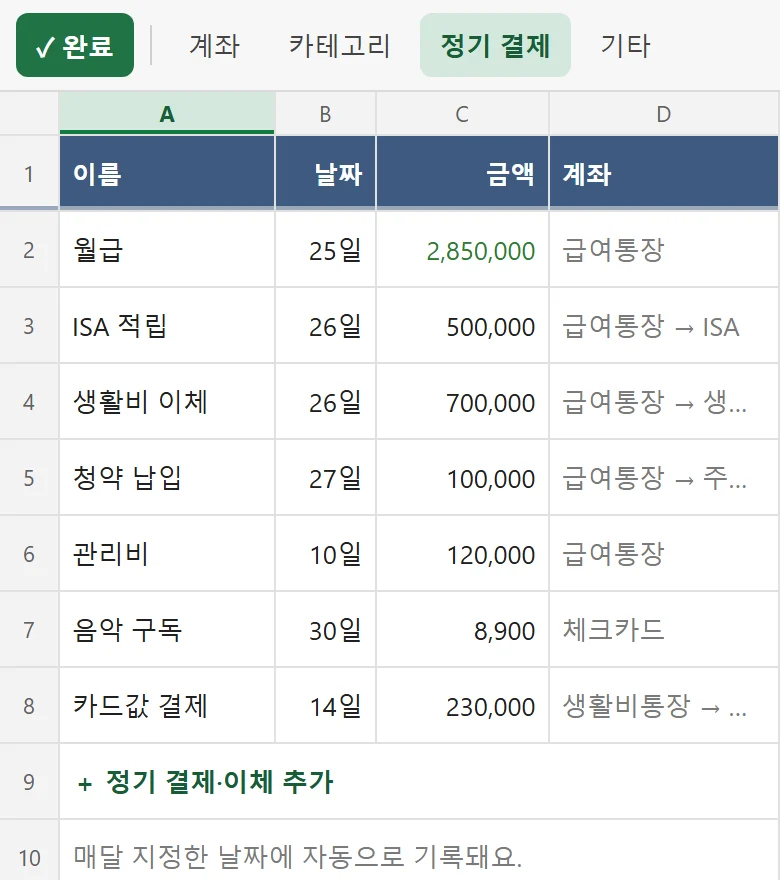
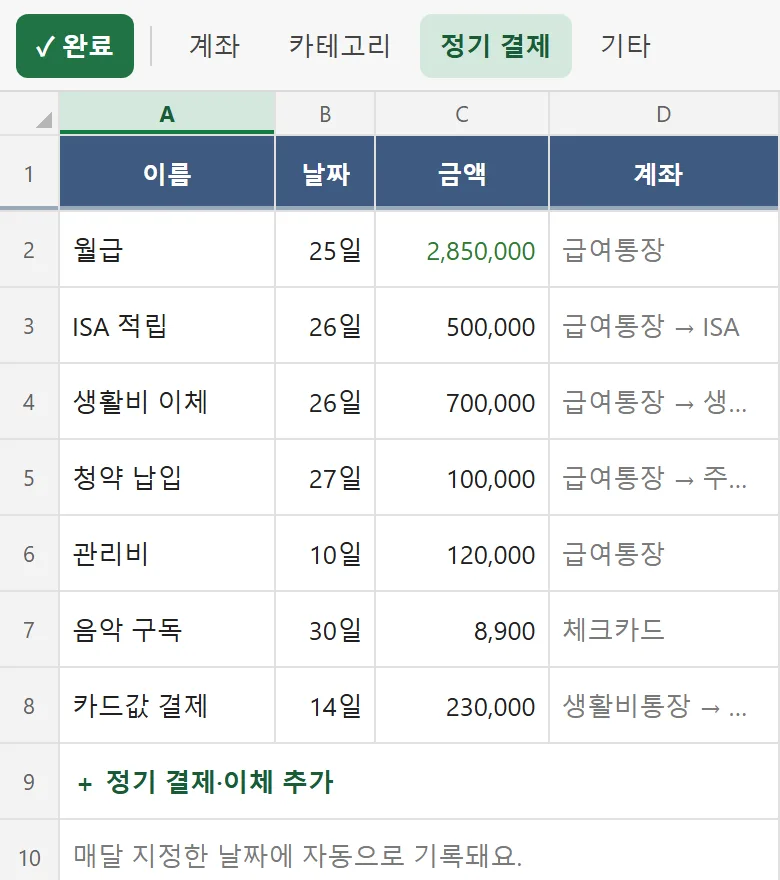
빠른 입력 오타 인식, 입금·출금 말 정리, 도움말 사진 새로 찍음, 휴대폰 도구 모음·넓은 화면 첫 화면 정리

diff --git a/app.js b/app.js
@@ -276,7 +276,7 @@ function aStats(id, s, e) {
 }
 
 /* ---------- 앱 버전 · 화면 테마 · 화면 높이 ---------- */
-const APP_VER = '2026.10.20-6';
+const APP_VER = '2026.10.21-1';
 // 화면 테마: auto(휴대폰 설정 따라감) / light / dark
 const THK = KEY + '.theme';
 const themePref = () => { try { return localStorage.getItem(THK) || 'auto'; } catch (e) { return 'auto'; } };
@@ -446,6 +446,7 @@ function render() {
   const app = $('#app');
   const wide = !!S && isWide();
   document.documentElement.classList.toggle('wide', wide);
+  document.documentElement.classList.toggle('wide-start', !S && isWide()); // 넓은 화면의 첫 화면은 가운데 상자로
   if (!S) { app.innerHTML = Sync.status === 'lock' ? vLocked() : vWelcome(); return; }
   if (U.detail && !A(U.detail)) U.detail = null;
   if (U.acct && !A(U.acct)) U.acct = null;
@@ -739,15 +740,64 @@ const QE = { focus: false };
 const KW = [[/커피|카페|스벅|스타벅스|디저트|빵|케이크|음료/, '커피·디저트'], [/점심|저녁|아침|식당|밥|마트|장보기|편의점|배달|식비|반찬|간식/, '식비·생활'],
   [/버스|지하철|택시|기차|ktx|srt|주유|교통|주차/i, '교통'], [/관리비|전기|가스|수도|월세|통신|공과금|인터넷/, '주거·공과금'], [/쿠팡|옷|쇼핑|온라인|다이소/, '쇼핑'],
   [/넷플릭스|유튜브|구독|멜론|icloud|애플뮤직|티빙|웨이브/i, '구독료'], [/영화|공연|여행|게임|여가|노래방|헬스/, '여가'], [/선물|경조사|축의|조의|모임|회비/, '사람'],
-  [/월급|급여|보너스|상여/, '월급'], [/캐시백|환급|이자|용돈|중고/, '기타수입']];
-const QIN = tk => /^(입금|수입|월급|급여|보너스|상여금?|용돈|이자|환불|환급|캐시백|페이백|판매)$/.test(tk) || /받았|받음|들어옴|들어왔|팔았/.test(tk);
-const QOUT = tk => /^(출금|지출|결제|줌|냄|드림|보냄|구매|구입)$/.test(tk) || /줬|드렸|냈|보냈|샀/.test(tk);
+  [/월급|급여|보너스|상여/, '월급'], [/캐시백|환급|환불|이자/, '기타수입']];
+const QIN = tk => /^(입금|월급|급여|보너스|상여금|환불|환급|이자|캐시백)$/.test(tk); // 뜻이 분명한 말만
+const QOUT = tk => /^(출금|지출|결제)$/.test(tk);
 const QTYPE = /^(입금|출금|지출|수입)$/;
+// ---- 오타 인식 ----
+const jamo = str => { let o = ''; for (const ch of str.toLowerCase()) { const c = ch.charCodeAt(0) - 0xAC00; o += c >= 0 && c < 11172 ? String.fromCharCode(0x1100 + (c / 588 | 0), 0x1161 + (c % 588 / 28 | 0)) + (c % 28 ? String.fromCharCode(0x11A7 + c % 28) : '') : ch; } return o; };
+function editDist(a, b, max) {
+  if (Math.abs(a.length - b.length) > max) return max + 1;
+  let prev = Array.from({ length: b.length + 1 }, (_, i) => i);
+  for (let i = 1; i <= a.length; i++) {
+    const cur = [i]; let low = i;
+    for (let j = 1; j <= b.length; j++) { cur[j] = Math.min(prev[j] + 1, cur[j - 1] + 1, prev[j - 1] + (a[i - 1] === b[j - 1] ? 0 : 1)); low = Math.min(low, cur[j]); }
+    if (low > max) return max + 1; prev = cur;
+  }
+  return prev[b.length];
+}
+// 흔히 쓰는 낱말: 고치지 않고, 오타를 고칠 때 대상도 됨
+const COMMON = '아침 점심 저녁 야식 간식 배달 마트 편의점 장보기 반찬 과일 고기 우유 생수 라면 김밥 국밥 치킨 피자 떡볶이 빵집 술 회식 택시 버스 지하철 기차 주유 주차 세차 약국 병원 미용실 세탁 수리 선물 축의금 조의금 경조사 월세 관리비 전기 가스 수도 통신비 보험 학원 책 옷 신발 가방 화장품 담배 휴지 세제 이사 대출 적금 카드값 용돈 중고 판매 꽃 안경 문구 여행 숙소 항공 영화 게임 헬스 노래방 쿠팡 다이소'.split(' ');
+// 고칠 대상: 계좌 이름, 카테고리, 자주 쓰는 단어(추정 단어 + 흔한 낱말 + 두 번 이상 쓴 메모 낱말)
+function quickVocab() {
+  const w = new Set(['어제', '오늘', '그제', '이동', '이체', '송금', '입금', '출금', '지출', '결제', '월급', '급여', '보너스', '상여금', '환불', '환급', '이자', '캐시백']);
+  for (const [re] of KW) for (const x of re.source.split('|')) if (/^[가-힣]{2,}$/.test(x)) w.add(x);
+  for (const x of COMMON) w.add(x);
+  for (const c of S.cats) for (const x of c.n.split(/[·\s]/)) if (x.length >= 2) w.add(x);
+  const n = new Map(); for (const t of S.tx) for (const x of String(t.memo || '').split(' ')) if (x.length >= 2) n.set(x, (n.get(x) || 0) + 1);
+  for (const [x, k] of n) if (k >= 2) w.add(x);
+  return w;
+}
+function fixTypos(text) {
+  const vocab = quickVocab(), fixed = [], nm = x => x.toLowerCase().replace(/\s+/g, '');
+  const names = accts().map(a => [a, nm(a.name)]);
+  const out = text.trim().split(' ').map(tk => {
+    const m = tk.match(/^(.*?)(에서|으로|로|에)?$/), b = m[1], tail = m[2] || '';
+    if (!/^[가-힣]{2,}$/.test(b) || vocab.has(b) || names.some(([, n]) => n.includes(nm(b)))) return tk; // 한글 두 글자 이상, 모르는 말만
+    const lim = b.length >= 3 ? 2 : 1, jb = jamo(b);
+    const ok = w => jamo(w)[0] === jb[0] && !w.includes(b) && !b.includes(w); // 첫 자음이 같고, 한쪽이 다른 쪽을 품지 않을 때만
+    // 계좌 이름(앞부분)과 비교
+    let best = null, bd = lim + 1, tie = false;
+    for (const [a, n] of names) {
+      if (!ok(n)) continue;
+      const d = Math.min(editDist(jb, jamo(n.slice(0, b.length)), lim), editDist(jb, jamo(n), lim));
+      if (d < bd) { best = a; bd = d; tie = false; } else if (d === bd && best && best.id !== a.id) tie = true;
+    }
+    if (best && !tie) { fixed.push(`${b}→${best.name}`); return best.name.replace(/\s+/g, '') + tail; }
+    // 자주 쓰는 단어와 비교
+    let bw = null; bd = lim + 1; tie = false;
+    for (const w of vocab) { if (!ok(w)) continue; const d = editDist(jb, jamo(w), lim); if (d < bd) { bw = w; bd = d; tie = false; } else if (d === bd) tie = true; }
+    if (bw && !tie) { fixed.push(`${b}→${bw}`); return bw + tail; }
+    return tk;
+  });
+  return { text: out.join(' '), fixed };
+}
 const escRe = x => x.replace(/[.*+?^${}()|[\]\\]/g, '\\$&');
 function parseQuick(text) {
-  let t = ' ' + String(text || '').replace(/\s+/g, ' ').trim() + ' ';
-  if (!t.trim()) return null;
-  const o = { date: defDate(), acct: '', type: 'out', amt: 0, ex: '', cat: '', to: '', memo: '' };
+  let t = String(text || '').replace(/\s+/g, ' ').trim();
+  if (!t) return null;
+  const fx = fixTypos(t); t = ' ' + fx.text + ' ';
+  const o = { date: defDate(), acct: '', type: 'out', amt: 0, ex: '', cat: '', to: '', memo: '', fixed: fx.fixed };
   const findAcct = str => { let best = null; const l = str.toLowerCase(); for (const a of accts()) { const nm = a.name.toLowerCase(); if (nm && l.includes(nm) && (!best || nm.length > best.name.length)) best = a; } return best; };
   const PT = '(?:에서|으로|로|에)?'; // 계좌 이름 뒤 조사 (국민카드에서, 토스로)
   const cut = (str, name) => str.replace(new RegExp(escRe(name) + PT, 'i'), ' ');
@@ -839,7 +889,8 @@ function quickPreview(o) {
   else parts.push(o.cat ? `${catLbl(o.cat)}` : '<span class="neg">카테고리 빈 칸</span>');
   parts.push(o.date === TODAY() ? '오늘' : dLabel(o.date));
   if (o.memo) parts.push(`"${esc(o.memo)}"`);
-  return '↳ ' + parts.join(' · ') + ' <span style="color:var(--muted)">· Enter로 추가</span>';
+  const fx = o.fixed?.length ? ` <span class="qfix">· 오타 고침 ${esc(o.fixed.join(', '))}</span>` : '';
+  return '↳ ' + parts.join(' · ') + fx + ' <span style="color:var(--muted)">· Enter로 추가</span>';
 }
 // 날짜 칸: 비우면 오늘(보는 달 기준), 10/14 · 14 · 1014 · 2026-10-14
 function qDate(v) {
@@ -1312,7 +1363,7 @@ const GUIDE = [
 const HELP = [
   { t: '처음 설정', img: 'help/start.webp', p: ['계좌의 시작 잔액은 시작일 기준이에요. 시작일 이전 거래는 계산에서 빠져요.', '시작일은 설정 → 기본값 설정 → 기타에서 바꿀 수 있어요.', '카드는 남은 카드값을 마이너스로 적어요. 예: -300000'] },
   { t: '빠른 입력', img: 'help/quick.webp', p: ['입력 탭 맨 위 칸에 한 줄로 적어요. 날짜 칸을 비우면 오늘로 들어가요.'],
-    ex: [['커피 4500', '출금, 커피·디저트'], ['체크카드 점심 9000', '체크카드에서 출금'], ['월급 2850000', '월급·용돈·입금·환불 같은 말이 있으면 입금'], ['용돈 줌 50000', '줌·결제·보냄 같은 말이 있으면 출금'], ['급여통장 → ISA 500000', '내 계좌끼리 이동'], ['급여통장에서 ISA로 500000', '말로 적어도 이동'], ['체크카드로 이체 300000', '보고 있는 계좌에서 보내기'], ['국민카드에서 커피 4500', '계좌 이름 뒤 조사는 빼고 읽음'], ['어제 버스 1500', '어제 날짜로'], ['18600/3 저녁', '나눈 금액 6,200'], ['1.5만 장보기', '15,000']] },
+    ex: [['커피 4500', '출금, 커피·디저트'], ['체크카드 점심 9000', '체크카드에서 출금'], ['월급 2850000', '입금·월급·급여·보너스·환불·이자가 있으면 입금'], ['동벡 4500 커퓌', '오타는 비슷한 계좌·단어로 고쳐서 넣음'], ['급여통장 → ISA 500000', '내 계좌끼리 이동'], ['급여통장에서 ISA로 500000', '말로 적어도 이동'], ['체크카드로 이체 300000', '보고 있는 계좌에서 보내기'], ['국민카드에서 커피 4500', '계좌 이름 뒤 조사는 빼고 읽음'], ['어제 버스 1500', '어제 날짜로'], ['18600/3 저녁', '나눈 금액 6,200'], ['1.5만 장보기', '15,000']] },
   { t: '컴퓨터·아이패드', p: ['화면이 넓으면 표가 넓게 펼쳐지고, 탭은 아래 시트 탭으로 옮겨요.'],
     ex: [['1 ~ 4, Ctrl+PgUp/PgDn', '탭 이동'], ['/', '빠른 입력 칸으로'], ['방향키, Tab, Home/End, PgUp/PgDn', '셀 이동'], ['Enter, F2', '선택한 셀 고치기'], ['금액 셀에서 숫자', '새 금액 바로 입력'], ['Esc', '선택 풀기'], ['Delete', '선택한 행 삭제'], ['Ctrl+Z / Ctrl+Y', '되돌리기 / 다시 실행'], ['아래 100% 누르기', '확대/축소 비율 고르기']] },
   { t: '고치기와 지우기', img: 'help/row.webp', p: ['셀을 누르면 그 칸만 고칠 수 있어요.', '셀을 고르면 위쪽에 행 삭제 버튼이 생겨요. 왼쪽 행 번호를 눌러도 복제, 삭제, 색 표시를 할 수 있어요.', '잘못 눌렀으면 위쪽 ↶로 되돌려요.'] },

diff --git a/tests/test.js b/tests/test.js
@@ -256,12 +256,18 @@ async function run() {
       { const o = P('월급 2850000'); ok(o.type === 'in' && o.amt === 2850000, 'income word -> 입금 without +'); }
       { const o = P('국민 입금 50000'); ok(o.type === 'in' && !/입금/.test(o.memo), 'type word 입금 -> 입금, not memo'); }
       { const o = P('환불 12000 쇼핑'); ok(o.type === 'in', 'refund -> 입금'); }
-      { const o = P('용돈 줌 50000'); ok(o.type === 'out', 'giving allowance -> 출금'); }
       { const o = P('커피 4500'); ok(o.type === 'out', 'plain spending stays 출금'); }
+      { const o = P('용돈 30000'); ok(o.type === 'out', 'ambiguous 용돈 no longer forces 입금'); }
+      { const o = P('동벡 4500 커피'); ok(nm(o.acct) === '동백전' && o.memo === '커피' && o.fixed.length === 1, 'typo in account name fixed'); }
+      { const o = P('체크카듸 점심 9000'); ok(nm(o.acct) === '체크카드' && o.memo === '점심', 'typo in longer account name fixed'); }
+      { const o = P('커퓌 4500'); ok(o.memo === '커피' && o.cat === '커피·디저트', 'typo in common word fixed'); }
+      { const o = P('월긊 2850000'); ok(o.type === 'in', 'typo in income word fixed'); }
+      { const o = P('피자 20000'); ok(o.type === 'out' && o.memo === '피자' && !o.fixed.length, 'common word 피자 not turned into 이자'); }
+      { const o = P('신발 30000'); ok(o.memo === '신발' && !o.fixed.length, 'unrelated word left alone'); }
+      { const o = P('동네 카페 4000'); ok(o.memo === '동네 카페' && !o.fixed.length, 'real words not corrected'); }
       { const o = P('이자카야 30000'); ok(o.type === 'out', 'word containing 이자 stays 출금'); }
       { const o = P('수입맥주 12000'); ok(o.type === 'out', 'word containing 수입 stays 출금'); }
-      { const o = P('줌 용돈 30000'); ok(o.type === 'out', 'out word first still 출금'); }
-      { const o = P('중고 판매 20000'); ok(o.type === 'in', '판매 -> 입금'); }
+
       { const o = P('학교로 택시 5000'); ok(o.type === 'out' && o.memo === '학교로 택시', 'non-account word with 로 stays memo'); }
       cb.U.sel = { id: t2.id, k: 'amt' }; cb.render(); ok(d.querySelector('.tb .t.del'), 'row delete button when a cell is selected');
       const n0 = cb.S.tx.length; A.delTx({ id: t2.id }); ok(cb.S.tx.length === n0 - 1 && !d.querySelector('.tb .t.del'), 'row deleted'); }

diff --git a/app.css b/app.css
@@ -440,3 +440,9 @@ html.wide,html.wide body{background:var(--bg3)}
 .tb .t.del .wl{display:inline;font-size:12.5px;color:var(--neg)}
 .wide .tb .t.del{flex-direction:column;gap:3px}
 .wide .tb .t.del .wl{display:block;font-size:11px}
+.qfix{color:var(--nudge-txt);font-weight:600}
+/* 휴대폰: 행 삭제는 아이콘만 (도구 모음이 넘치지 않게) */
+html:not(.wide) .tb .t.del .wl{display:none}
+/* 넓은 화면의 첫 화면·잠금 전 화면: 가운데 상자 */
+.wide-start #app{top:50%;bottom:auto;height:auto;max-height:94vh;transform:translateY(-50%);border-radius:18px}
+.wide-start .welcome{padding-top:48px}

diff --git a/sw.js b/sw.js
@@ -1,5 +1,5 @@
 // 오프라인 실행용 서비스 워커 — 앱 파일만 캐시하고, 가계부 데이터는 다루지 않는다.
-const VER = 'cellbook-v5';
+const VER = 'cellbook-v6';
 const SHELL = ['./', './index.html', './app.css', './app.js', './err.js', './head.js', './config.js', './manifest.webmanifest', './icon.svg', './icon-192.png', './icon-512.png'];
 const FB = 'https://www.gstatic.com/firebasejs/';
 

diff --git a/README.md b/README.md
@@ -2,9 +2,11 @@
 
 표로 정리하는 가계부. 데이터는 쓰는 기기의 브라우저에만 저장됩니다.
 
-https://heon5334.github.io/cellbook/ — 휴대폰에서 열고 홈 화면에 추가해서 씁니다.
+https://heon5334.github.io/cellbook/ — 휴대폰에서 열고 홈 화면에 추가해서 씁니다. 컴퓨터·아이패드에서는 엑셀처럼 넓은 화면으로 바뀝니다.
 
 - `index.html` `app.js` `app.css` — 앱
+- `head.js` — 아이패드 상태 표시줄 설정
 - `sw.js` `manifest.webmanifest` — 오프라인 실행
+- `help/` — 도움말 사진
 - `sync.js` `config.js` `firestore.rules` `firebase.json` — 로그인 동기화(꺼져 있음)
 - `tests/test.html?m=unit` — 점검 (로컬 서버에서 실행, 실제 데이터와 저장 공간이 분리됨)
